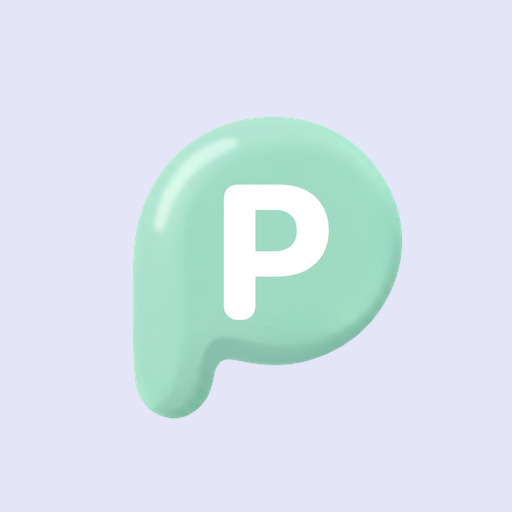
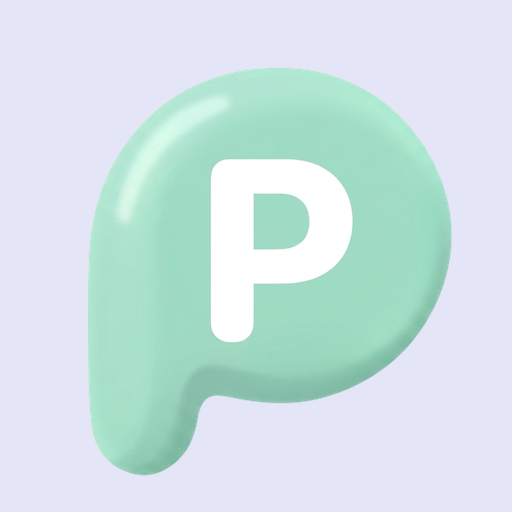
style: remove invisible alpha noise to restore perfect 10 percent padding scale

Changed region(s): [[0.1562, 0.125, 0.9062, 0.9375]]

diff --git a/generate-flawless.py b/generate-flawless.py
@@ -3,65 +3,63 @@ import numpy as np
 
 # 1. Load the high-res transparent logo
 logo = Image.open('public/logo-planazo.png').convert('RGBA')
+arr = np.array(logo)
+
+# Find true bounding box where alpha > 10 (ignores invisible noise)
+alpha = arr[:,:,3]
+rows = np.any(alpha > 10, axis=1)
+cols = np.any(alpha > 10, axis=0)
+ymin, ymax = np.where(rows)[0][[0, -1]]
+xmin, xmax = np.where(cols)[0][[0, -1]]
+
+# Crop to tight bounding box
+cropped_logo = logo.crop((xmin, ymin, xmax + 1, ymax + 1))
+cropped_alpha = alpha[ymin:ymax+1, xmin:xmax+1]
+
+# Calculate center of mass of the TIGHT cropped area
+y_indices, x_indices = np.indices(cropped_alpha.shape)
+total_mass = cropped_alpha.sum()
+cy_crop = (y_indices * cropped_alpha).sum() / total_mass
+cx_crop = (x_indices * cropped_alpha).sum() / total_mass
 
 # Lilac background
 lilac_bg = (228, 230, 248, 255)
 
-def create_centered_image(target_size, logo, bg_color):
+def create_centered_image(target_size, cropped_logo, cx_crop, cy_crop, bg_color):
     img = Image.new('RGBA', target_size, bg_color)
     
-    # Calculate center of mass of the ORIGINAL uncropped logo
-    arr = np.array(logo)[:,:,3]
-    y_indices, x_indices = np.indices(arr.shape)
-    total_mass = arr.sum()
-    cy_orig = (y_indices * arr).sum() / total_mass
-    cx_orig = (x_indices * arr).sum() / total_mass
-    
-    # Crop to bounding box to remove excess transparency for scaling calculation
-    bbox = logo.getbbox()
-    cropped_logo = logo.crop(bbox)
-    
-    # The center of mass in the cropped image
-    cx_crop = cx_orig - bbox[0]
-    cy_crop = cy_orig - bbox[1]
-    
-    # 10% padding means logo should take up 80% of the smallest dimension
+    # 10% padding means longest dimension is 80%
     max_logo_dim = min(target_size) * 0.8
-    aspect = cropped_logo.width / cropped_logo.height
     
-    if cropped_logo.width > cropped_logo.height:
-        lw = int(max_logo_dim)
-        lh = int(lw / aspect)
-    else:
-        lh = int(max_logo_dim)
-        lw = int(lh * aspect)
+    # Calculate scale factor
+    scale = max_logo_dim / max(cropped_logo.width, cropped_logo.height)
+    
+    lw = int(cropped_logo.width * scale)
+    lh = int(cropped_logo.height * scale)
         
     logo_resized = cropped_logo.resize((lw, lh), Image.Resampling.LANCZOS)
     
     # Scale the center of mass coordinates
-    scale_x = lw / cropped_logo.width
-    scale_y = lh / cropped_logo.height
+    cx_resized = cx_crop * scale
+    cy_resized = cy_crop * scale
     
-    cx_resized = cx_crop * scale_x
-    cy_resized = cy_crop * scale_y
-    
-    # We want to place cx_resized exactly at target_size[0]/2
-    # and cy_resized exactly at target_size[1]/2
+    # Place center of mass exactly at canvas center
     paste_x = int(target_size[0]/2 - cx_resized)
     paste_y = int(target_size[1]/2 - cy_resized)
     
-    # Paste using the logo itself as a mask to preserve transparency
+    # Paste using the logo itself as a mask
     img.paste(logo_resized, (paste_x, paste_y), logo_resized)
     return img
 
 # Create high-res 512x512 PWA Icon
-icon_512 = create_centered_image((512, 512), logo, lilac_bg)
+icon_512 = create_centered_image((512, 512), cropped_logo, cx_crop, cy_crop, lilac_bg)
 icon_512.save('src/app/icon.png')
 icon_512.save('src/app/apple-icon.png')
 icon_512.save('public/icon.png')
 
 # Create high-res 1200x630 Open Graph Image
-og_1200 = create_centered_image((1200, 630), logo, lilac_bg)
+# For OG, we want it to fit nicely within the height (with padding)
+og_1200 = create_centered_image((1200, 630), cropped_logo, cx_crop, cy_crop, lilac_bg)
 og_1200.save('public/og-image.png')
 
-print("Visually centered high-res images generated successfully!")
+print("Perfectly sized and centered high-res images generated successfully!")

diff --git a/check-bbox.py b/check-bbox.py
@@ -1,0 +1,25 @@
+from PIL import Image
+import numpy as np
+
+logo = Image.open('public/logo-planazo.png').convert('RGBA')
+arr = np.array(logo)
+
+# Find true bounding box where alpha > 10
+alpha = arr[:,:,3]
+rows = np.any(alpha > 10, axis=1)
+cols = np.any(alpha > 10, axis=0)
+
+ymin, ymax = np.where(rows)[0][[0, -1]]
+xmin, xmax = np.where(cols)[0][[0, -1]]
+
+print("Tight BBOX:", (xmin, ymin, xmax, ymax))
+
+# Calculate center of mass of the TIGHT cropped area
+cropped_alpha = alpha[ymin:ymax+1, xmin:xmax+1]
+y_indices, x_indices = np.indices(cropped_alpha.shape)
+total_mass = cropped_alpha.sum()
+cy = (y_indices * cropped_alpha).sum() / total_mass
+cx = (x_indices * cropped_alpha).sum() / total_mass
+
+print("Center of mass inside cropped area:", cx, cy)
+print("Center of geometry inside cropped area:", (xmax-xmin)/2, (ymax-ymin)/2)
